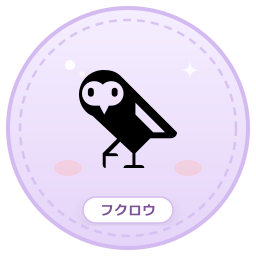
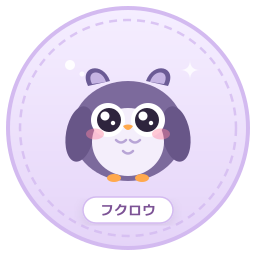
style: タカ(istp)の足線を排除しクリーン化、フクロウ(intp)をもっちり丸体型に抜本修正

Changed region(s): [[0.2188, 0.25, 0.7812, 0.7188]]

diff --git a/scripts/generate-animal-icons.js b/scripts/generate-animal-icons.js
@@ -9,9 +9,117 @@ const sharp = require('sharp');
 // - 番人 (ISTP/ISTJ/ESTP/ESTJ): やさしいベビーブルー
 // - 探検家 (ISFP/ISFJ/ESFP/ESFJ): あたたかみのあるクリームイエロー/シェルピンク
 
+// フクロウ (INTP): もっちりふっくら丸い体型、不自然な足の線なし、愛嬌満点のサンリオ・ちいかわ風
+function getOwlSvg() {
+  return `
+    <g transform="translate(128, 126)">
+      <!-- 耳の羽角 (丸っこくて愛嬌のある小さなぴょこん耳) -->
+      <path d="M-40 -40 C-50 -60 -25 -65 -18 -45 Z" fill="#6B5B95" />
+      <path d="M40 -40 C50 -60 25 -65 18 -45 Z" fill="#6B5B95" />
+      <path d="M-36 -42 C-43 -56 -26 -58 -22 -44 Z" fill="#C5B4E3" />
+      <path d="M36 -42 C43 -56 26 -58 22 -44 Z" fill="#C5B4E3" />
+
+      <!-- もっちりふっくら丸い体 (ラベンダーに調和する柔らかい紫グレー) -->
+      <ellipse cx="0" cy="5" rx="56" ry="50" fill="#7C6A9C" />
+
+      <!-- ちょこんと畳んだ丸い翼 (両サイド) -->
+      <ellipse cx="-48" cy="8" rx="14" ry="28" fill="#685688" transform="rotate(10 -48 8)" />
+      <ellipse cx="48" cy="8" rx="14" ry="28" fill="#685688" transform="rotate(-10 48 8)" />
+
+      <!-- ふんわりマシュマロお腹 -->
+      <ellipse cx="0" cy="16" rx="36" ry="34" fill="#F4EEFB" />
+
+      <!-- お腹のゆるかわ羽模様 -->
+      <path d="M-12 14 Q-7 19 -2 14" stroke="#B8A5D6" stroke-width="2.5" stroke-linecap="round" fill="none" />
+      <path d="M2 14 Q7 19 12 14" stroke="#B8A5D6" stroke-width="2.5" stroke-linecap="round" fill="none" />
+      <path d="M-5 25 Q0 30 5 25" stroke="#B8A5D6" stroke-width="2.5" stroke-linecap="round" fill="none" />
+
+      <!-- まんまるくりくりの大きな目 (サンリオ・ちいかわ風) -->
+      <ellipse cx="-20" cy="-6" rx="17" ry="17" fill="#FFFFFF" />
+      <ellipse cx="20" cy="-6" rx="17" ry="17" fill="#FFFFFF" />
+
+      <!-- 瞳 (ツヤツヤのうるうるアイ) -->
+      <ellipse cx="-19" cy="-6" rx="12" ry="12" fill="#2E243D" />
+      <ellipse cx="19" cy="-6" rx="12" ry="12" fill="#2E243D" />
+
+      <!-- 大きなうるうるハイライト -->
+      <circle cx="-23" cy="-10" r="4.5" fill="#FFFFFF" />
+      <circle cx="15" cy="-10" r="4.5" fill="#FFFFFF" />
+      <circle cx="-15" cy="-3" r="2.2" fill="#FFFFFF" />
+      <circle cx="23" cy="-3" r="2.2" fill="#FFFFFF" />
+
+      <!-- ぷっくり丸い小さなオレンジくちばし -->
+      <path d="M-5 0 Q0 8 5 0 Q0 -3 -5 0 Z" fill="#FFA94D" />
+
+      <!-- ほんのりピンクのぽわぽわほっぺチーク -->
+      <ellipse cx="-33" cy="8" rx="9" ry="5.5" fill="#FF85A1" opacity="0.45" />
+      <ellipse cx="33" cy="8" rx="9" ry="5.5" fill="#FF85A1" opacity="0.45" />
+
+      <!-- 体にすっぽり収まるちんまりした丸い足先（不自然な足の線は完全に排除） -->
+      <ellipse cx="-14" cy="52" rx="7" ry="4" fill="#FFA94D" />
+      <ellipse cx="14" cy="52" rx="7" ry="4" fill="#FFA94D" />
+    </g>
+  `;
+}
+
+// タカ (ISTP): 足の線を完全排除、シンプル＆クリーンで丸っこくふっくらしたゆるかわタカ
+function getHawkSvg() {
+  return `
+    <g transform="translate(128, 126)">
+      <!-- 頭のぴょこんとした可愛い冠羽 (サンリオ・ちいかわ風) -->
+      <path d="M-8 -46 Q-2 -62 10 -58 Q3 -48 -2 -42 Z" fill="#4B6584" />
+      <path d="M-2 -44 Q8 -54 18 -48 Q10 -40 4 -38 Z" fill="#5E7898" />
+
+      <!-- コロンと丸くふっくらした体 (ベビーブルーに映えるスモーキーブルーグレー) -->
+      <ellipse cx="0" cy="5" rx="54" ry="48" fill="#4B6584" />
+
+      <!-- ふっくらした丸い翼 (両脇) -->
+      <ellipse cx="-46" cy="10" rx="13" ry="26" fill="#3D536E" transform="rotate(12 -46 10)" />
+      <ellipse cx="46" cy="10" rx="13" ry="26" fill="#3D536E" transform="rotate(-12 46 10)" />
+
+      <!-- マシュマロみたいなお腹エプロン (クリームホワイト) -->
+      <ellipse cx="0" cy="15" rx="34" ry="32" fill="#F0F4F8" />
+
+      <!-- 胸のちんまりした羽根マーク -->
+      <path d="M-10 10 L0 18 L10 10" stroke="#8CA0B8" stroke-width="2.5" stroke-linecap="round" stroke-linejoin="round" fill="none" />
+      <path d="M-8 22 L0 28 L8 22" stroke="#8CA0B8" stroke-width="2.5" stroke-linecap="round" stroke-linejoin="round" fill="none" />
+
+      <!-- まんまるくりくりの大きなタカの目 (きりっとしつつも愛嬌たっぷりのちいかわ風) -->
+      <ellipse cx="-18" cy="-6" rx="15" ry="15" fill="#FFFFFF" />
+      <ellipse cx="18" cy="-6" rx="15" ry="15" fill="#FFFFFF" />
+
+      <!-- 瞳 (ゴールドアンバーのキラキラアイ) -->
+      <ellipse cx="-17" cy="-6" rx="10.5" ry="10.5" fill="#D97706" />
+      <ellipse cx="17" cy="-6" rx="10.5" ry="10.5" fill="#D97706" />
+
+      <!-- 瞳孔 (黒目) -->
+      <ellipse cx="-17" cy="-6" rx="7" ry="7" fill="#1E293B" />
+      <ellipse cx="17" cy="-6" rx="7" ry="7" fill="#1E293B" />
+
+      <!-- うるうるハイライト -->
+      <circle cx="-20" cy="-9" r="3.8" fill="#FFFFFF" />
+      <circle cx="14" cy="-9" r="3.8" fill="#FFFFFF" />
+      <circle cx="-14" cy="-4" r="1.8" fill="#FFFFFF" />
+      <circle cx="20" cy="-4" r="1.8" fill="#FFFFFF" />
+
+      <!-- ちょこんと小さくカーブした可愛い黄色いくちばし -->
+      <path d="M-6 -2 Q0 -5 6 -2 Q8 8 0 10 Q-8 8 -6 -2 Z" fill="#F59E0B" />
+      <path d="M-1 3 Q0 10 2 3 Z" fill="#D97706" />
+
+      <!-- ぽわっとした愛されほっぺチーク -->
+      <ellipse cx="-32" cy="7" rx="8" ry="5" fill="#FF85A1" opacity="0.45" />
+      <ellipse cx="32" cy="7" rx="8" ry="5" fill="#FF85A1" opacity="0.45" />
+
+      <!-- 足の細い線は完全に排除！丸っこい体にすっぽり収まる可愛い爪先の丸みのみ -->
+      <ellipse cx="-13" cy="50" rx="6.5" ry="3.5" fill="#F59E0B" />
+      <ellipse cx="13" cy="50" rx="6.5" ry="3.5" fill="#F59E0B" />
+    </g>
+  `;
+}
+
 const animals = [
   // 分析家 (淡いラベンダーパープル)
-  { type: 'INTP', label: 'フクロウ', emoji: '🦉', bg1: '#F5EEFF', bg2: '#E5D4F8', border: '#D3BAF0', badgeBg: '#FFFFFF', badgeText: '#7C5295' },
+  { type: 'INTP', label: 'フクロウ', customSvg: getOwlSvg(), bg1: '#F5EEFF', bg2: '#E5D4F8', border: '#D3BAF0', badgeBg: '#FFFFFF', badgeText: '#7C5295' },
   { type: 'INTJ', label: 'ワシ', emoji: '🦅', bg1: '#F3ECFE', bg2: '#E2D0FA', border: '#D0B6F0', badgeBg: '#FFFFFF', badgeText: '#764B93' },
   { type: 'ENTP', label: 'キツネ', emoji: '🦊', bg1: '#F7EFFE', bg2: '#E8D7FB', border: '#D7BEF4', badgeBg: '#FFFFFF', badgeText: '#7F569B' },
   { type: 'ENTJ', label: 'ライオン', emoji: '🦁', bg1: '#F1E8FD', bg2: '#DDC9F7', border: '#CDB0ED', badgeBg: '#FFFFFF', badgeText: '#6F438D' },
@@ -23,7 +131,7 @@ const animals = [
   { type: 'ENFJ', label: 'ペンギン', emoji: '🐧', bg1: '#ECFDF5', bg2: '#D1FAE5', border: '#A7F3D0', badgeBg: '#FFFFFF', badgeText: '#065F46' },
 
   // 番人 (やさしいベビーブルー)
-  { type: 'ISTP', label: 'タカ', emoji: '🦅', bg1: '#F0F9FF', bg2: '#E0F2FE', border: '#BAE6FD', badgeBg: '#FFFFFF', badgeText: '#0369A1' },
+  { type: 'ISTP', label: 'タカ', customSvg: getHawkSvg(), bg1: '#F0F9FF', bg2: '#E0F2FE', border: '#BAE6FD', badgeBg: '#FFFFFF', badgeText: '#0369A1' },
   { type: 'ISTJ', label: 'カメ', emoji: '🐢', bg1: '#EFF6FF', bg2: '#DBEAFE', border: '#BFDBFE', badgeBg: '#FFFFFF', badgeText: '#1D4ED8' },
   { type: 'ESTP', label: 'トラ', emoji: '🐯', bg1: '#F0F9FF', bg2: '#E0F2FE', border: '#BAE6FD', badgeBg: '#FFFFFF', badgeText: '#0284C7' },
   { type: 'ESTJ', label: 'ウシ', emoji: '🐮', bg1: '#F1F5F9', bg2: '#E2E8F0', border: '#CBD5E1', badgeBg: '#FFFFFF', badgeText: '#334155' },
@@ -40,6 +148,17 @@ async function generate() {
   if (!fs.existsSync(dir)) fs.mkdirSync(dir, { recursive: true });
 
   for (const item of animals) {
+    const centerGraphic = item.customSvg ? item.customSvg : `
+      <!-- ほんのりピンクのほっぺチーク -->
+      <ellipse cx="68" cy="168" rx="14" ry="8" fill="#FFB7B2" opacity="0.35" />
+      <ellipse cx="188" cy="168" rx="14" ry="8" fill="#FFB7B2" opacity="0.35" />
+
+      <!-- 中央の動物絵文字（上下余白が均等になるよう配置） -->
+      <text x="128" y="168" font-size="98" text-anchor="middle" dominant-baseline="central">
+        ${item.emoji}
+      </text>
+    `;
+
     const svg = `
       <svg width="256" height="256" viewBox="0 0 256 256" xmlns="http://www.w3.org/2000/svg">
         <defs>
@@ -66,14 +185,7 @@ async function generate() {
         <circle cx="82" cy="74" r="2.5" fill="#FFFFFF" opacity="0.8" />
         <path d="M190 60 Q190 70 200 70 Q190 70 190 80 Q190 70 180 70 Q190 70 190 60 Z" fill="#FFFFFF" opacity="0.8" />
 
-        <!-- ほんのりピンクのほっぺチーク（イラスト位置に合わせて下方向へオフセット） -->
-        <ellipse cx="68" cy="168" rx="14" ry="8" fill="#FFB7B2" opacity="0.35" />
-        <ellipse cx="188" cy="168" rx="14" ry="8" fill="#FFB7B2" opacity="0.35" />
-
-        <!-- 中央の動物絵文字（上下余白が完全に均等になるよう y=168 へさらに下方オフセット） -->
-        <text x="128" y="168" font-size="98" text-anchor="middle" dominant-baseline="central">
-          ${item.emoji}
-        </text>
+        ${centerGraphic}
         
         <!-- ゆるかわ下部ラベルバッジ（マシュマロ・もっちりピルバッジ） -->
         <g transform="translate(128, 210)" filter="url(#soft-shadow)">
@@ -92,7 +204,7 @@ async function generate() {
 }
 
 generate()
-  .then(() => console.log('Successfully regenerated all 16 pastel-pop animal icon images!'))
+  .then(() => console.log('Successfully regenerated animal icon images with custom owl & hawk!'))
   .catch((err) => {
     console.error('Error generating pastel-pop animal icons:', err);
     process.exit(1);
